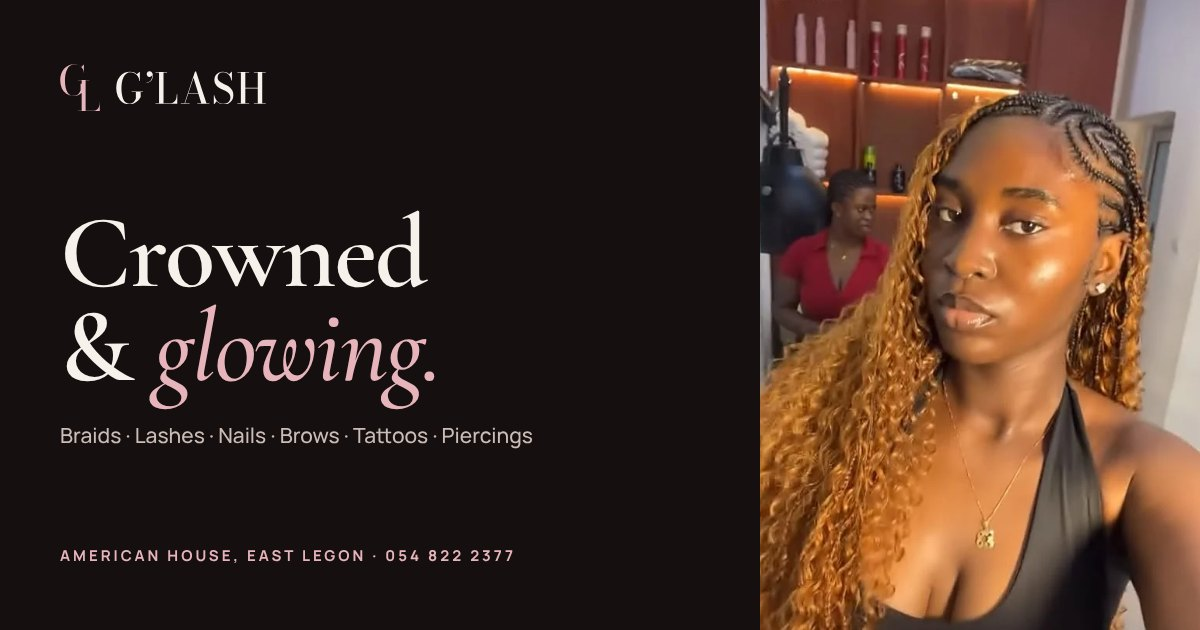
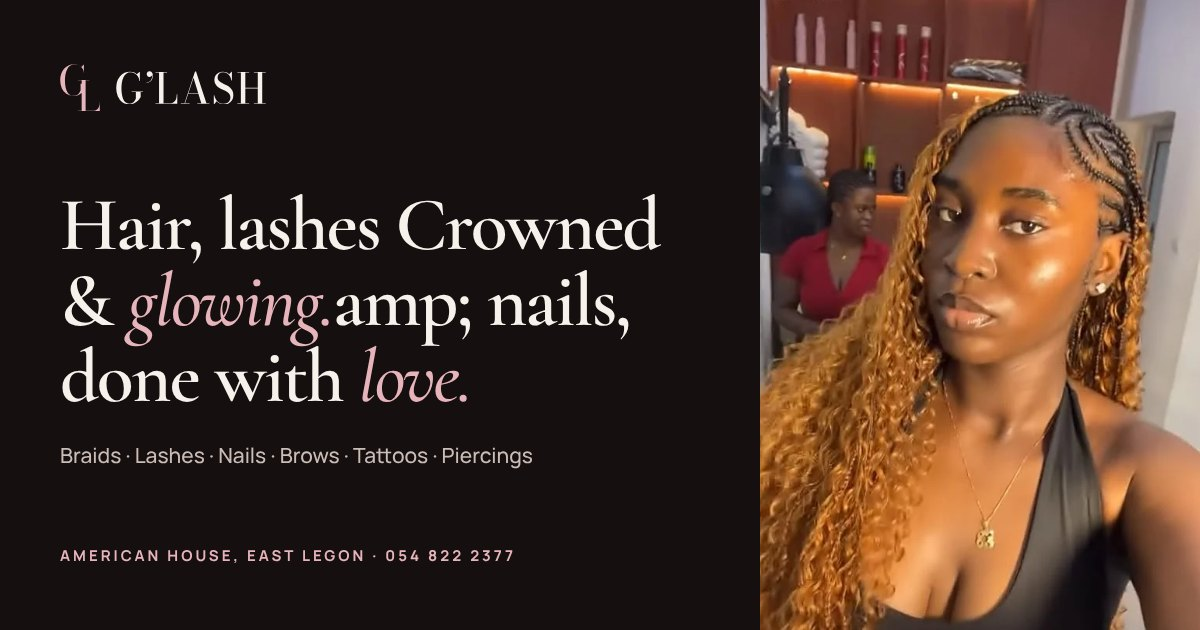
Hero: text over a full-screen photo, warmer copy
- Hero is a full-screen section with the copy laid over the photo
- Desktop keeps the photo sharp at full height and fills the rest of
  the frame with a soft, blurred copy of the same shot
- Rewrote the hero copy in the studio's own voice
- Simpler info line (open status, phone, Instagram)
- OG image updated to the new headline

Claude-Session: https://claude.ai/code/session_01FBpk3kfwNJfyAcM5bHJKds

Changed region(s): [[0.0308, 0.3016, 0.555, 0.754]]

diff --git a/index.html b/index.html
@@ -103,25 +103,29 @@ h2 em,h1 em{font-style:italic;font-weight:500;color:var(--blush)}
 body.lock{overflow:hidden}
 
 /* hero */
-.hero{position:relative;display:flex;flex-direction:column;color:var(--cream);background:var(--ink);overflow:hidden;isolation:isolate}
-.hero-media{position:relative;z-index:-1;margin:0;width:100%;aspect-ratio:591/860;max-height:80svh;background:var(--ink-2)}
-.hero-media img{position:absolute;inset:0;width:100%;height:100%;object-fit:cover;object-position:center 20%;opacity:0;transition:opacity .9s ease}
-.hero-media img.on{opacity:1}
-.hero-media::after{content:"";position:absolute;inset:0;background:linear-gradient(180deg,rgba(21,16,15,.55) 0,rgba(21,16,15,0) 20%,rgba(21,16,15,0) 62%,rgba(21,16,15,.75) 84%,var(--ink) 100%)}
-.hero-media figcaption{position:absolute;z-index:1;right:var(--gut);top:84px;font-size:12px;font-weight:600;color:var(--cream);text-shadow:0 1px 8px rgba(0,0,0,.5)}
-.hero-media figcaption span+span{margin-left:8px;color:#cbbcb6;font-weight:500}
-.hero-in{position:relative;margin-top:-84px;padding-bottom:0}
-.live{display:inline-flex;align-items:center;gap:9px;padding:7px 13px 7px 11px;border:1px solid rgba(247,241,236,.25);border-radius:999px;background:rgba(21,16,15,.45);font-size:12px;font-weight:600;color:var(--cream)}
+.hero{position:relative;min-height:100vh;min-height:100svh;display:flex;align-items:flex-end;color:var(--cream);background:var(--ink);overflow:hidden;isolation:isolate}
+.slides{position:absolute;inset:0;z-index:-2;margin:0}
+.slide{position:absolute;inset:0;opacity:0;transition:opacity .9s ease}
+.slide.on{opacity:1}
+.slide img{position:absolute;inset:0;width:100%;height:100%;object-fit:cover;object-position:center top}
+.slide .bg{display:none}
+.hero::after{content:"";position:absolute;inset:0;z-index:-1;background:linear-gradient(180deg,rgba(21,16,15,.5) 0,rgba(21,16,15,0) 18%,rgba(21,16,15,0) 42%,rgba(21,16,15,.78) 70%,rgba(21,16,15,.94) 100%)}
+.slides figcaption{position:absolute;z-index:1;right:var(--gut);top:84px;font-size:12px;color:#e9dfda;text-shadow:0 1px 8px rgba(0,0,0,.6)}
+.hero-in{position:relative;padding-top:120px;padding-bottom:calc(32px + env(safe-area-inset-bottom))}
+.hero-copy{max-width:560px}
+.hero h1{font-size:clamp(40px,11vw,66px);line-height:1;letter-spacing:-.015em;margin-bottom:18px;text-shadow:0 2px 30px rgba(0,0,0,.3)}
+.hero p{font-size:15.5px;line-height:1.55;color:#e6dcd7;margin-bottom:22px;text-shadow:0 1px 16px rgba(0,0,0,.4)}
+.hero .ctas{display:flex;gap:10px}
+.hero .ctas .btn{flex:1 1 0;min-height:48px;padding:0 14px;font-size:14px}
+.hero .ctas .btn svg{width:17px;height:17px}
+.hero .long{display:none}
+.hero-info{display:flex;flex-wrap:wrap;gap:4px 14px;margin-top:20px;font-size:13.5px;color:#d8ccc7}
+.hero-info a{text-decoration:none;border-bottom:1px solid rgba(247,241,236,.35)}
+.hero-info a:hover{color:var(--cream);border-color:var(--cream)}
+.hero-info .ig{display:none}
+.live{display:inline-flex;align-items:center;gap:8px;color:var(--cream)}
 .live i{width:7px;height:7px;border-radius:50%;background:#9a8a86}
 .live.on i{background:#48c27a}
-.hero h1{font-size:clamp(60px,16vw,150px);line-height:.9;letter-spacing:-.02em;margin:18px 0 20px}
-.hero h1 em{padding-right:.04em}
-.hero p{font-size:17px;color:#ddd1cc;max-width:440px;margin-bottom:28px}
-.hero .ctas{display:flex;flex-direction:column;gap:12px}
-.hero-foot{display:grid;grid-template-columns:1fr 1fr;gap:14px 20px;margin-top:36px;padding:20px 0 calc(22px + env(safe-area-inset-bottom));border-top:1px solid rgba(247,241,236,.16);font-size:12px;color:#cbbcb6}
-.hero-foot b{display:block;font-size:10px;letter-spacing:.24em;text-transform:uppercase;color:var(--blush);font-weight:700;margin-bottom:3px}
-.hero-foot a{text-decoration:none}
-.hero-foot a:hover{color:var(--cream)}
 
 /* sections */
 section{padding:88px 0}
@@ -234,8 +238,11 @@ footer{background:var(--ink);color:var(--mute-dk);padding:72px 0 calc(40px + env
 @media (min-width:640px){
   :root{--gut:32px}
   .hero .ctas{flex-direction:row}
-  .hero-bg{grid-template-columns:repeat(3,1fr)}
-  .hero-foot{grid-template-columns:repeat(3,auto);justify-content:start;column-gap:48px}
+  .hero .ctas .btn{flex:0 0 auto;min-height:52px;padding:0 26px;font-size:15px}
+  .hero p{font-size:16.5px;margin-bottom:26px}
+  .hero-info .ig{display:inline}
+  .hero .long{display:inline}
+  .hero .short{display:none}
   .look{columns:3;column-gap:14px}
   .look button{margin-bottom:14px}
   .row{grid-template-columns:1fr 1fr}
@@ -256,14 +263,14 @@ footer{background:var(--ink);color:var(--mute-dk);padding:72px 0 calc(40px + env
   .hdr .wrap{height:84px}
   .logo .lm{width:30px;height:35px}
   .logo .lw{width:106px;height:24px}
-  .hero{min-height:100vh;min-height:100svh;justify-content:center}
-  .hero-media{position:absolute;inset:0 0 0 auto;width:min(46vw,calc(100svh*.66));aspect-ratio:auto;max-height:none}
-  .hero-in{margin-top:0;padding-top:84px}
-  .hero-media::after{background:linear-gradient(90deg,var(--ink) 0,rgba(21,16,15,0) 16%),linear-gradient(180deg,rgba(21,16,15,.5) 0,rgba(21,16,15,0) 22%)}
-  .hero-media figcaption{top:auto;bottom:30px;right:30px}
-  .hero-copy{max-width:min(640px,calc(100vw - min(46vw,100svh*.66) - var(--gut) - 48px));padding-top:40px}
-  .hero h1{font-size:clamp(84px,8.2vw,136px)}
-  .hero-foot{margin-top:48px;padding-bottom:0;border-top-color:rgba(247,241,236,.14)}
+  .hero{align-items:center}
+  .slide .bg{display:block;filter:blur(30px) brightness(.62) saturate(1.1);transform:scale(1.15)}
+  .slide .fg{left:auto;width:auto;height:100%;max-width:none;object-fit:contain;-webkit-mask-image:linear-gradient(90deg,transparent 0,#000 30%);mask-image:linear-gradient(90deg,transparent 0,#000 30%)}
+  .hero::after{background:linear-gradient(90deg,rgba(21,16,15,.82) 0,rgba(21,16,15,.55) 38%,rgba(21,16,15,0) 62%),linear-gradient(180deg,rgba(21,16,15,.45) 0,rgba(21,16,15,0) 20%,rgba(21,16,15,0) 80%,rgba(21,16,15,.5) 100%)}
+  .slides figcaption{top:auto;bottom:28px;right:var(--gut)}
+  .hero-in{padding-top:84px;padding-bottom:0}
+  .hero h1{font-size:clamp(64px,6vw,92px)}
+  .hero p{font-size:18px;max-width:30em}
   .about{grid-template-columns:1fr 1fr;gap:88px;align-items:center}
   .about-media{order:-1}
   .svc-grid{grid-template-columns:repeat(4,1fr);grid-template-rows:380px 380px;grid-template-areas:"lash lash braid pony" "curl nail braid pony"}
@@ -318,28 +325,23 @@ footer{background:var(--ink);color:var(--mute-dk);padding:72px 0 calc(40px + env
 
 <main>
 <section class="hero" id="top" aria-label="Welcome" style="padding:0">
-  <figure class="hero-media" aria-label="Recent work">
-    <img class="on" src="/img/hero-1.webp" width="591" height="810" alt="Client with honey-blonde curly braids and a stitched front" data-name="Honey curls" fetchpriority="high" decoding="async">
-    <img src="/img/hero-2.webp" width="591" height="870" alt="Fulani braids with curly ends" data-name="Fulani braids" loading="lazy" decoding="async">
-    <img src="/img/hero-3.webp" width="591" height="895" alt="Long straight knotless braids" data-name="Knotless braids" loading="lazy" decoding="async">
-    <img src="/img/hero-4.webp" width="591" height="900" alt="Side view of stitch cornrows" data-name="Stitch cornrows" loading="lazy" decoding="async">
-    <img src="/img/hero-5.webp" width="591" height="915" alt="Boho braids with loose curls" data-name="Boho braids" loading="lazy" decoding="async">
-    <figcaption><span id="heroCap">Honey curls</span><span><span id="heroNum">1</span> / 5</span></figcaption>
+  <figure class="slides" aria-label="Recent work">
+    <div class="slide on" data-name="Honey curls"><img class="bg" src="/img/hero-1.webp" alt="" fetchpriority="high" decoding="async"><img class="fg" src="/img/hero-1.webp" width="591" height="810" alt="Client with honey-blonde curly braids and a stitched front" fetchpriority="high" decoding="async"></div>
+    <div class="slide" data-name="Fulani braids"><img class="bg" src="/img/hero-2.webp" alt="" loading="lazy" decoding="async"><img class="fg" src="/img/hero-2.webp" width="591" height="870" alt="Fulani braids with curly ends" loading="lazy" decoding="async"></div>
+    <div class="slide" data-name="Knotless braids"><img class="bg" src="/img/hero-3.webp" alt="" loading="lazy" decoding="async"><img class="fg" src="/img/hero-3.webp" width="591" height="895" alt="Long straight knotless braids" loading="lazy" decoding="async"></div>
+    <div class="slide" data-name="Stitch cornrows"><img class="bg" src="/img/hero-4.webp" alt="" loading="lazy" decoding="async"><img class="fg" src="/img/hero-4.webp" width="591" height="900" alt="Side view of stitch cornrows" loading="lazy" decoding="async"></div>
+    <div class="slide" data-name="Boho braids"><img class="bg" src="/img/hero-5.webp" alt="" loading="lazy" decoding="async"><img class="fg" src="/img/hero-5.webp" width="591" height="915" alt="Boho braids with loose curls" loading="lazy" decoding="async"></div>
+    <figcaption id="heroCap">Honey curls</figcaption>
   </figure>
   <div class="wrap hero-in">
     <div class="hero-copy">
-      <span class="live" id="live"><i></i><span>Mon–Sat 9–8 · Sun 1–8</span></span>
-      <h1>Crowned<br>&amp; <em>glowing.</em></h1>
-      <p>Braids, lashes, brows, nails, tattoos and piercings under one roof at American House, East Legon. Come as you are, leave with the look.</p>
+      <h1>Hair, lashes &amp; nails, done with <em>love.</em></h1>
+      <p><span class="long">We're G'Lash and Braidhaus, two studios sharing one cosy space at American House, East Legon, right opposite Compu Ghana. Send us a picture of the look you want and we'll take it from there.</span><span class="short">Two studios, one cosy space at American House, East Legon. Send us a picture of the look you want.</span></p>
       <div class="ctas">
         <a class="btn btn-blush" href="#book"><svg><use href="#wa"/></svg>Book on WhatsApp</a>
-        <a class="btn btn-ghost" href="#lookbook">View the lookbook</a>
+        <a class="btn btn-ghost" href="#lookbook">See our work</a>
       </div>
-      <div class="hero-foot">
-        <span><b>Hours</b>Mon–Sat 9–8 · Sun 1–8</span>
-        <span><b>Find us</b>Opp. Compu Ghana</span>
-        <a href="https://www.instagram.com/glash233/" target="_blank" rel="noopener"><b>Instagram</b>1.1k followers ↗</a>
-      </div>
+      <p class="hero-info"><span class="live" id="live"><i></i><span>Mon–Sat 9am–8pm, Sun 1pm–8pm</span></span><a href="tel:+233548222377">054 822 2377</a><a class="ig" href="https://www.instagram.com/glash233/" target="_blank" rel="noopener">@glash233</a></p>
     </div>
   </div>
 </section>
@@ -518,7 +520,7 @@ footer{background:var(--ink);color:var(--mute-dk);padding:72px 0 calc(40px + env
   onScroll();addEventListener('scroll',onScroll,{passive:true});
 
   // hero slideshow: one photo at a time
-  var hero=$('.hero'),slides=document.querySelectorAll('.hero-media img'),cap=$('#heroCap'),num=$('#heroNum'),cur=0;
+  var hero=$('.hero'),slides=document.querySelectorAll('.slide'),cap=$('#heroCap'),cur=0;
   if(slides.length>1&&!matchMedia('(prefers-reduced-motion: reduce)').matches){
     setInterval(function(){
       if(document.hidden||scrollY>innerHeight)return;
@@ -526,7 +528,6 @@ footer{background:var(--ink);color:var(--mute-dk);padding:72px 0 calc(40px + env
       cur=(cur+1)%slides.length;
       slides[cur].classList.add('on');
       cap.textContent=slides[cur].getAttribute('data-name');
-      num.textContent=cur+1;
     },5000);
   }
 
@@ -559,7 +560,7 @@ footer{background:var(--ink);color:var(--mute-dk);padding:72px 0 calc(40px + env
   var row=$('#hours tr[data-d="'+d+'"]');if(row)row.className='today';
   var st=$('#status');st.classList.toggle('on',open);
   var live=$('#live');live.classList.toggle('on',open);
-  live.lastElementChild.textContent=open?'Open now · until 8pm':(h<(d===0?13:9)?'Opens today at '+(d===0?'1pm':'9am'):'Closed now · WhatsApp us anytime');
+  live.lastElementChild.textContent=open?'Open now, till 8pm':(h<(d===0?13:9)?'Opening at '+(d===0?'1pm':'9am')+' today':'Closed now, but you can still WhatsApp us');
   st.lastElementChild.textContent=open?'Open now':'Closed now · WhatsApp us anytime';
   $('#yr').textContent=now.getUTCFullYear();
 
